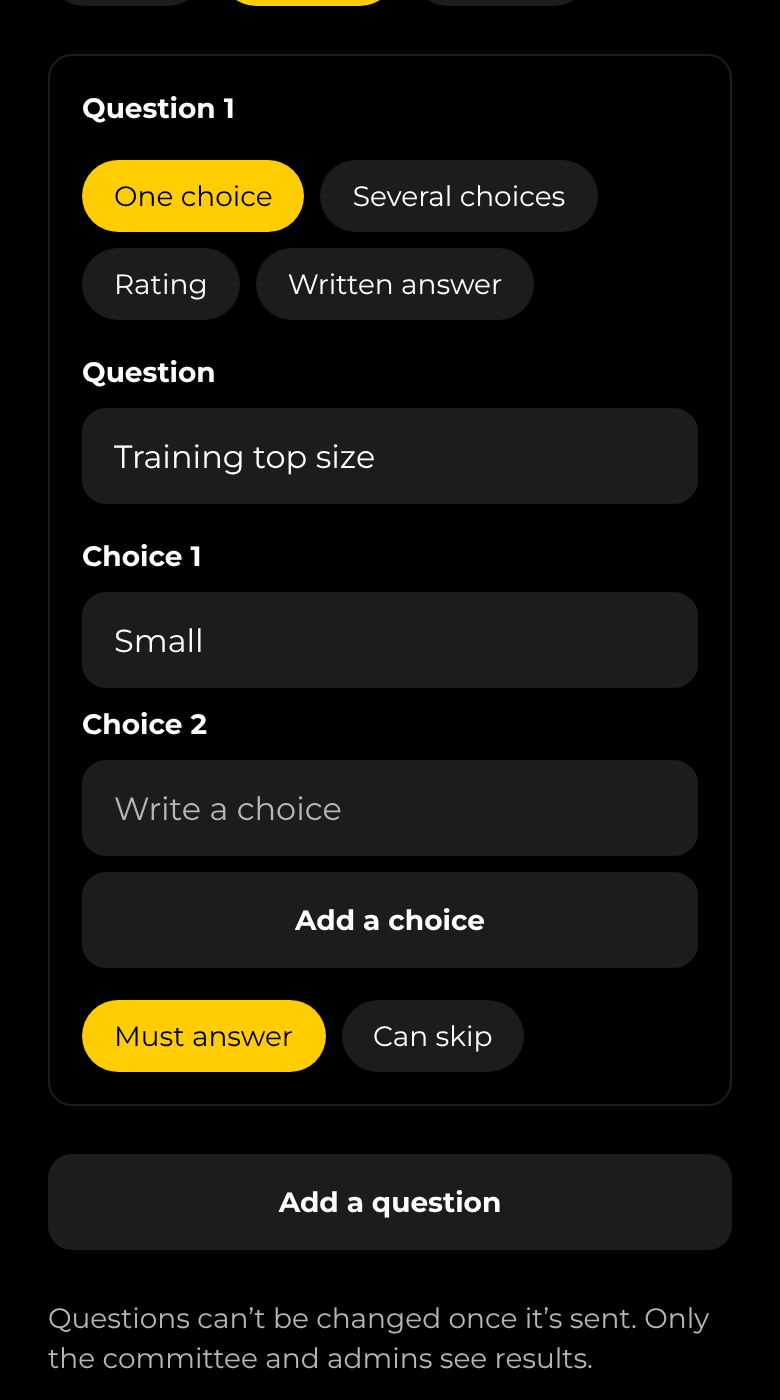
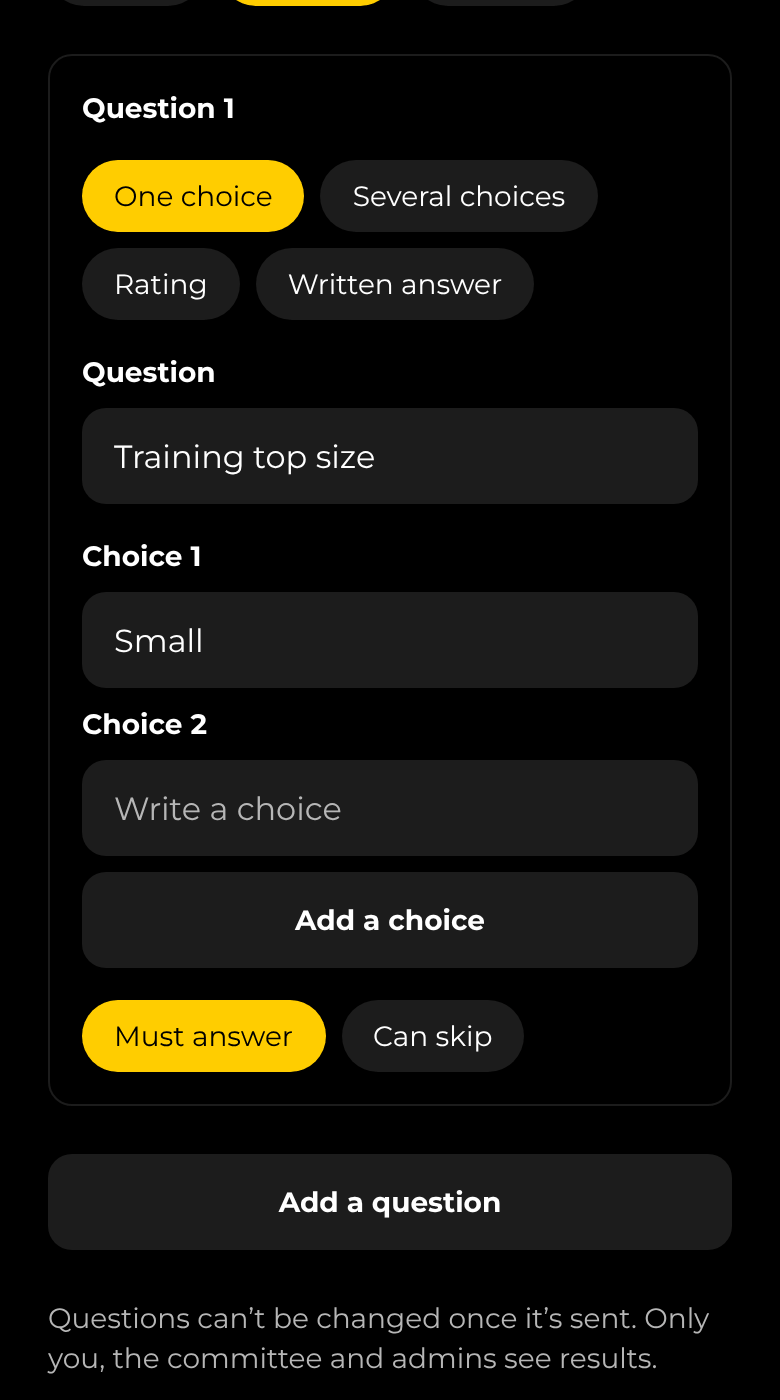
Let coaches and managers send surveys and polls to their own squads and teams
They send to the groups they coach or manage with a current check, see
only the surveys they sent, and read those results while they still lead
that group. The committee and admins still see every survey. Anonymity
rules are unchanged.

Claude-Session: https://claude.ai/code/session_011mgcLG2v6Sjj6gzeqmDwPH

Changed region(s): [[0.0615, 0.9521, 0.8308, 0.9829]]

diff --git a/src/app/surveys/new.tsx b/src/app/surveys/new.tsx
@@ -10,6 +10,7 @@ import { Spacing } from '@/constants/theme';
 import { useTheme } from '@/hooks/use-theme';
 import { toDateString } from '@/lib/injuries';
 import { pluralRoleLabels } from '@/lib/labels';
+import { useLedGroups } from '@/lib/messages';
 import { supabase } from '@/lib/supabase';
 import {
   endOfDayIso,
@@ -17,6 +18,7 @@ import {
   identityLabels,
   questionKindLabels,
   startOfDayIso,
+  useCanManageSurveys,
   type SurveyAudience,
   type SurveyIdentity,
   type SurveyQuestionKind,
@@ -58,15 +60,22 @@ function daysFromToday(days: number) {
 export default function NewSurveyScreen() {
   const theme = useTheme();
   const teams = useTeams();
+  // Coaches and managers send to the squads and teams they coach or manage;
+  // the committee and admins to anyone.
+  const canManage = useCanManageSurveys();
+  const ledGroups = useLedGroups(teams);
+  const groups = canManage ? teams : ledGroups;
   const [title, setTitle] = useState('');
   const [intro, setIntro] = useState('');
   const [identity, setIdentity] = useState<SurveyIdentity>('anonymous');
-  const [audience, setAudience] = useState<SurveyAudience>('club');
+  const [audience, setAudience] = useState<SurveyAudience>(canManage ? 'club' : 'group');
   const [role, setRole] = useState<AppRole | null>(null);
   const [teamId, setTeamId] = useState<string | null>(null);
   const [opensOn, setOpensOn] = useState<string | null>(toDateString(new Date()));
   const [closesOn, setClosesOn] = useState<string | null>(daysFromToday(14));
   const [questions, setQuestions] = useState<DraftQuestion[]>([newQuestion()]);
+  // Someone who leads one group doesn't need to pick it.
+  const selectedTeamId = teamId ?? (!canManage && groups.length === 1 ? groups[0].id : null);
   const [sending, setSending] = useState(false);
   const [error, setError] = useState<string | null>(null);
 
@@ -77,7 +86,7 @@ export default function NewSurveyScreen() {
   async function send() {
     if (!title.trim()) return setError('Give the survey a title.');
     if (audience === 'role' && !role) return setError('Choose who to send it to.');
-    if (audience === 'group' && !teamId) return setError('Choose a squad or team.');
+    if (audience === 'group' && !selectedTeamId) return setError('Choose a squad or team.');
     if (!opensOn || !closesOn) return setError('Choose when it opens and closes.');
     if (closesOn < opensOn) return setError('Choose a closing day on or after the opening day.');
     for (const [i, q] of questions.entries()) {
@@ -98,7 +107,7 @@ export default function NewSurveyScreen() {
       p_identity: identity,
       p_audience: audience,
       p_role: audience === 'role' ? role : null,
-      p_team_id: audience === 'group' ? teamId : null,
+      p_team_id: audience === 'group' ? selectedTeamId : null,
       // Opening today means straight away.
       p_opens_at: opensOn <= today ? null : startOfDayIso(opensOn),
       p_closes_at: endOfDayIso(closesOn),
@@ -149,19 +158,21 @@ export default function NewSurveyScreen() {
         {identityDetails[identity]} This can’t be changed once it’s sent.
       </ThemedText>
 
-      <ChipGroup
-        label="Send to"
-        options={[
-          { value: 'club', label: 'Everyone' },
-          { value: 'role', label: 'A role' },
-          { value: 'group', label: 'A squad or team' },
-        ]}
-        selected={[audience]}
-        onToggle={(value) => {
-          setAudience(value);
-          setError(null);
-        }}
-      />
+      {canManage ? (
+        <ChipGroup
+          label="Send to"
+          options={[
+            { value: 'club', label: 'Everyone' },
+            { value: 'role', label: 'A role' },
+            { value: 'group', label: 'A squad or team' },
+          ]}
+          selected={[audience]}
+          onToggle={(value) => {
+            setAudience(value);
+            setError(null);
+          }}
+        />
+      ) : null}
       {audience === 'role' ? (
         <ChipGroup
           label="Role"
@@ -171,12 +182,19 @@ export default function NewSurveyScreen() {
         />
       ) : null}
       {audience === 'group' ? (
-        <ChipGroup
-          label="Squad or team"
-          options={teams.map((t) => ({ value: t.id, label: teamLabel(t, teams) }))}
-          selected={teamId ? [teamId] : []}
-          onToggle={setTeamId}
-        />
+        groups.length === 0 ? (
+          <ThemedText type="small" themeColor="textSecondary">
+            You can send surveys to the squads and teams you coach or manage once an admin adds
+            you to one.
+          </ThemedText>
+        ) : (
+          <ChipGroup
+            label={canManage ? 'Squad or team' : 'Send to'}
+            options={groups.map((t) => ({ value: t.id, label: teamLabel(t, teams) }))}
+            selected={selectedTeamId ? [selectedTeamId] : []}
+            onToggle={setTeamId}
+          />
+        )
       ) : null}
       <ThemedText type="small" themeColor="textSecondary">
         Parents and guardians of athletes under 18 get a copy so they can see what their child is
@@ -282,7 +300,8 @@ export default function NewSurveyScreen() {
       ) : null}
 
       <ThemedText type="small" themeColor="textSecondary">
-        Questions can’t be changed once it’s sent. Only the committee and admins see results.
+        Questions can’t be changed once it’s sent. Only you, the committee and admins see
+        results.
       </ThemedText>
       <ErrorText>{error}</ErrorText>
       <Button title="Send survey" onPress={send} busy={sending} />

diff --git a/src/app/surveys/[id].tsx b/src/app/surveys/[id].tsx
@@ -17,7 +17,6 @@ import {
   identityLabels,
   openingDay,
   surveyAudienceLabel,
-  useCanManageSurveys,
   type SurveyAnswer,
   type SurveyDetail,
   type SurveyQuestion,
@@ -27,8 +26,7 @@ type Draft = Record<string, { choices?: number[]; rating?: number; text?: string
 
 export default function SurveyScreen() {
   const { id } = useLocalSearchParams<{ id: string }>();
-  const { isAdmin, profile, session } = useAuth();
-  const canManage = useCanManageSurveys();
+  const { profile } = useAuth();
   const [survey, setSurvey] = useState<SurveyDetail | null>(null);
   const [loadError, setLoadError] = useState<string | null>(null);
   const [draft, setDraft] = useState<Draft>({});
@@ -59,8 +57,6 @@ export default function SurveyScreen() {
   }
   if (!survey) return <Screen>{null}</Screen>;
 
-  const canClose =
-    canManage && survey.is_open && (isAdmin || survey.created_by === session?.user.id);
   const hasText = survey.questions.some((q) => q.kind === 'text');
 
   async function submit() {
@@ -199,14 +195,14 @@ export default function SurveyScreen() {
         </>
       )}
 
-      {canManage ? (
+      {survey.can_see_results ? (
         <View style={styles.actions}>
           <Button
             title="See results"
             variant="secondary"
             onPress={() => router.push({ pathname: '/surveys/results', params: { id: survey.id } })}
           />
-          {canClose ? (
+          {survey.can_close ? (
             <ConfirmDelete
               title="Close it now"
               warning="Nobody else can answer once it’s closed."
@@ -227,8 +223,8 @@ function IdentityNotice({ survey }: { survey: SurveyDetail }) {
     survey.identity === 'anonymous'
       ? 'This survey is anonymous. Nobody, including the committee and admins, can see who gave which answers.'
       : survey.identity === 'named'
-        ? 'Your name goes with your answers. Only the committee and admins see them.'
-        : 'You choose whether to give your name. Only the committee and admins see answers.';
+        ? 'Your name goes with your answers. Only whoever sent it, the committee and admins see them.'
+        : 'You choose whether to give your name. Only whoever sent it, the committee and admins see answers.';
   return (
     <Card>
       <ThemedText type="small">{text}</ThemedText>

diff --git a/src/lib/surveys.ts b/src/lib/surveys.ts
@@ -22,7 +22,7 @@ export const identityLabels: Record<SurveyIdentity, string> = {
 export const identityDetails: Record<SurveyIdentity, string> = {
   anonymous:
     'Nobody can see who gave which answers, not even admins. Results show once it closes and at least 3 people have answered.',
-  named: 'Every answer shows the member’s name. You can see who hasn’t answered yet.',
+  named: 'Every answer shows the member’s name. You can see who hasn’t answered yet. Good for a quick poll.',
   optional:
     'Each member chooses whether to give their name. Results show once it closes and at least 3 people have answered.',
 };
@@ -100,6 +100,10 @@ export type SurveyDetail = {
   /** Not open yet: only the committee and admins see it. */
   is_scheduled: boolean;
   is_recipient: boolean;
+  /** The committee and admins, or the coach or manager who sent it. */
+  can_see_results: boolean;
+  /** Whoever sent it, or an admin, while it's still open. */
+  can_close: boolean;
   for_child_names: string[] | null;
   can_answer: boolean;
   responded: boolean;
@@ -160,11 +164,24 @@ export function endOfDayIso(day: string) {
   return date.toISOString();
 }
 
-/** The committee and admins make surveys and read results. The database checks this too. */
+/**
+ * The committee and admins send surveys to anyone and read every survey's
+ * results. The database checks this too.
+ */
 export function useCanManageSurveys() {
   const { isAdmin, profile } = useAuth();
   if (profile?.status !== 'approved') return false;
   return isAdmin || hasRole(profile, 'committee');
+}
+
+/**
+ * Coaches and managers also send surveys, to the squads and teams they coach
+ * or manage, and read their own surveys' results.
+ */
+export function useCanSendSurveys() {
+  const { memberships } = useAuth();
+  const canManage = useCanManageSurveys();
+  return canManage || memberships.some((m) => m.team_role === 'coach' || m.team_role === 'manager');
 }
 
 /** Surveys sent to the member that have opened, refreshed when the screen is shown. */

diff --git a/src/app/index.tsx b/src/app/index.tsx
@@ -52,7 +52,7 @@ import { supabase } from '@/lib/supabase';
 import { useNewConcerns } from '@/lib/concerns';
 import { usePersonalTasks } from '@/lib/personal-tasks';
 import { useSessionPlanSummary } from '@/lib/session-plans';
-import { useCanManageSurveys, useMySurveys, surveysToAnswer } from '@/lib/surveys';
+import { useCanSendSurveys, useMySurveys, surveysToAnswer } from '@/lib/surveys';
 import { buildTodos } from '@/lib/todos';
 import type { ChildConsent } from '@/lib/consents';
 import {
@@ -103,7 +103,7 @@ export default function HomeScreen() {
   const { kpiPeople, reloadKpiPeople } = useKpiPeople();
   const { kpiReviewTodos, reloadKpiReviewTodos } = useKpiReviewTodos();
   const { mySurveys, reloadMySurveys } = useMySurveys();
-  const canManageSurveys = useCanManageSurveys();
+  const canSendSurveys = useCanSendSurveys();
   const surveysWaiting = surveysToAnswer(mySurveys).length;
   const { absencesToReview, reloadAbsencesToReview } = useAbsencesToReview(useLeadsAGroup());
   const canSeeInjuries = useCanSeeInjuries();
@@ -296,7 +296,7 @@ export default function HomeScreen() {
           </PressableCard>
         ) : null}
 
-        {features.surveys && (canManageSurveys || mySurveys.length > 0) ? (
+        {features.surveys && (canSendSurveys || mySurveys.length > 0) ? (
           <PressableCard onPress={() => router.push('/surveys')}>
             <View style={styles.cardTitleRow}>
               <ThemedText type="smallBold">Surveys</ThemedText>
@@ -311,7 +311,7 @@ export default function HomeScreen() {
             <ThemedText type="small" themeColor="textSecondary">
               {surveysWaiting > 0
                 ? `${surveysWaiting} to answer`
-                : canManageSurveys
+                : canSendSurveys
                   ? 'Send a survey and see results'
                   : 'Nothing to answer'}
             </ThemedText>

diff --git a/src/app/surveys/index.tsx b/src/app/surveys/index.tsx
@@ -14,6 +14,7 @@ import {
   identityLabels,
   surveyAudienceLabel,
   useCanManageSurveys,
+  useCanSendSurveys,
   useMySurveys,
   type ManagedSurvey,
   type MySurvey,
@@ -23,18 +24,20 @@ type Tab = 'mine' | 'all';
 
 export default function SurveysScreen() {
   const canManage = useCanManageSurveys();
+  // Coaches and managers send surveys to their own groups and see only those.
+  const canSend = useCanSendSurveys();
   const { mySurveys, reloadMySurveys } = useMySurveys();
   const [managed, setManaged] = useState<ManagedSurvey[] | null>(null);
   const [tab, setTab] = useState<Tab>('mine');
   const [refreshing, setRefreshing] = useState(false);
   // Committee members and admins rarely get surveys themselves, so they start on the club's.
-  const shown: Tab = canManage && mySurveys.length === 0 && tab === 'mine' ? 'all' : tab;
+  const shown: Tab = canSend && mySurveys.length === 0 && tab === 'mine' ? 'all' : tab;
 
   const loadManaged = useCallback(async () => {
-    if (!canManage) return;
+    if (!canSend) return;
     const { data } = await supabase.rpc('manage_surveys');
     setManaged((data as ManagedSurvey[] | null) ?? []);
-  }, [canManage]);
+  }, [canSend]);
 
   useFocusEffect(
     useCallback(() => {
@@ -50,13 +53,13 @@ export default function SurveysScreen() {
 
   return (
     <Screen refreshing={refreshing} onRefresh={onRefresh}>
-      {canManage ? (
+      {canSend ? (
         <View style={styles.actions}>
           <Button title="New survey" onPress={() => router.push('/surveys/new')} />
           <ChipGroup
             options={[
               { value: 'mine', label: 'Sent to me' },
-              { value: 'all', label: 'All surveys' },
+              { value: 'all', label: canManage ? 'All surveys' : 'Sent by me' },
             ]}
             selected={[shown]}
             onToggle={setTab}

diff --git a/docs/user-guide.md b/docs/user-guide.md
@@ -93,7 +93,7 @@ What each role sees on its home screen:
 | Read messages                          |    ✓    |        ✓        |      ✓       |     ✓      |       ✓       |       ✓*      |         |       ✓       |
 | Send messages                          | Captains† |                 |  Own groups  | Own groups |   Whole club  |               |         |     Anyone    |
 | Answer surveys                         |    ✓    | Own; see their athlete's |      ✓       |     ✓      |       ✓       |       ✓       |         |       ✓       |
-| Make surveys and see results           |         |                 |              |            |       ✓       |               |         |       ✓       |
+| Send surveys and polls, see results    |         |                 |  Own groups  | Own groups |    Anyone     |               |         |    Anyone     |
 | Daily check-in                         |    ✓    |                 |              |            |               |               |         |               |
 | Game goals and reflections             |   Own   |  See athlete's  | Own athletes |            |               |               |         |               |
 | Team goals for a game                  | See, comment |       See       | Set, review, comment |            |               |               |         |               |
@@ -380,7 +380,8 @@ and who read it stay (see [Keeping records](#keeping-records)).
 
 ### Surveys
 
-The committee and admins send surveys to everyone, a role, or a squad or team. A survey you need
+The committee and admins send surveys to everyone, a role, or a squad or team, and coaches and
+managers send surveys and quick polls to their own squads and teams. A survey you need
 to answer shows in your to-do list until you answer it or it closes, and the **Surveys** card on
 the home screen counts how many are waiting.
 
@@ -395,8 +396,8 @@ Each survey says at the top how your answers are kept:
 - **Name optional**: you choose **Give my name** or **Don't give my name** before you send.
 
 Answer each question and tap **Send answers**. Questions marked (optional) can be skipped. You
-can't change your answers once they're sent, and you can answer each survey once. Only the
-committee and admins see answers, never other members.
+can't change your answers once they're sent, and you can answer each survey once. Only whoever
+sent it, the committee and admins see answers, never other members.
 
 Athletes under 18 see a reminder on anonymous and name-optional surveys: nobody can reply to
 something written without a name, so if something is worrying them they should tell a coach or
@@ -1269,6 +1270,23 @@ session.
 <img src="user-guide/attendance-athletes.png" width="210" alt="Athletes' attendance percentages">
 <img src="user-guide/attendance-athlete.png" width="210" alt="One athlete's attendance">
 
+### Surveys and polls for your squad or team
+
+Coaches and managers can send a survey, or a one-question poll such as "Can you come to an extra
+session on Friday?", to the squads and teams they coach or manage. Open **Surveys** from the home
+screen and tap **New survey**. It works the same way as for the committee (see [Surveys for the
+club](#surveys-for-the-club)), except that **Send to** only offers your own groups; if you lead
+just one, it's picked for you. A **Named** survey with one **One choice** question makes a quick
+poll, and shows who hasn't answered yet.
+
+<img src="user-guide/survey-coach-new.png" width="210" alt="A coach sending a poll to their squad"> <img src="user-guide/surveys-coach-list.png" width="210" alt="A coach's surveys">
+
+**Sent by me** lists your own surveys. You see the results of the surveys you sent, while you
+still coach or manage that squad or team with a current check, including after the season ends.
+You don't see other people's surveys. The committee and admins see yours. The same rules keep
+anonymous answers anonymous, and opening named answers from an athlete under 18 is recorded in
+their record views.
+
 ### Session plans
 
 Keep a plan for each session, before or after it, so the club has a record of what was coached.
@@ -1325,6 +1343,8 @@ your squad until you're in a team, like "Manager, 17 & Under". As a manager you 
 
 - **Send messages** to the squads and teams you manage, and see read receipts, the same way as
   coaches (see [Sending messages](#sending-messages)).
+- **Send surveys and polls** to the squads and teams you manage, and see their results (see
+  [Surveys and polls for your squad or team](#surveys-and-polls-for-your-squad-or-team)).
 - **Take attendance** for your groups, a whole squad or the whole club, and see and correct your
   own groups' sessions (see [Taking attendance](#taking-attendance)).
 - **Work on your season KPIs**, if the club uses them: the committee sets them, and you record your
@@ -2451,8 +2471,8 @@ once saved, only replaced or removed, and anyone who gets it wrong five times in
 | Committee checks date   | Everyone signed in. Only admins change it, and only to bring it forward; who changed it and when is kept. |
 | Messages                | The people they were sent to, the sender, and admins. Guardians of athletes under 18 get a copy of every message sent to their athlete, and of every message their athlete sends as a captain. Guests don't get messages; physios get messages sent to the Physio role and to their squads and teams, and whole-club messages only if an admin turns that on. |
 | Read receipts           | The sender and admins.                                                                                                      |
-| Survey answers          | The committee and admins. Named answers show the member's name; parents and guardians of an athlete under 18 also read their child's named answers. Anonymous answers, and name-optional answers given without a name, are kept with no name, no member and no time, so nobody can see who gave them, admins included; their results show only once the survey has closed and at least 3 people have answered. Members never see each other's answers. |
-| Who has answered a survey | Named surveys: the committee and admins see who hasn't answered yet. Anonymous and name-optional surveys: only how many have answered. Each member sees whether they've answered themselves. |
+| Survey answers          | The committee and admins, and the coach or manager who sent a survey to their own squad or team, while they still coach or manage it. Named answers show the member's name; parents and guardians of an athlete under 18 also read their child's named answers. Anonymous answers, and name-optional answers given without a name, are kept with no name, no member and no time, so nobody can see who gave them, admins included; their results show only once the survey has closed and at least 3 people have answered. Members never see each other's answers. |
+| Who has answered a survey | Named surveys: whoever can see the results sees who hasn't answered yet. Anonymous and name-optional surveys: only how many have answered. Each member sees whether they've answered themselves. |
 | Daily check-in answers and notes | The athlete, their guardians and their coaches. For an athlete under 18, their coaches only once a parent or guardian consents, and until then their check-ins count in no average. The committee, physios and admins see only group averages, hidden below 5 check-ins (over three days, in Trends) or when two groups differ by fewer than 5. |
 | Injuries and documents  | For an athlete under 18 whose parents haven't given consent for injuries: only the athlete, their guardians and admins. Otherwise the athlete, their guardians, their coaches, the physios who look after them (the Head Physio and physios in their squad or team), the committee and admins. Managers don't see injuries. Whoever takes attendance (coaches, managers, the committee and admins) sees only that an athlete is **Injured** and their expected return date, whatever the consent. Only the committee member or admin accepting a clearance can share its documents, while it waits for them; everyone else views them in the app. |
 | Who opened injury documents | The athlete, their guardians and admins: every view and share, by whom, their role and when, and each photo consent. |
@@ -2608,7 +2628,8 @@ Working With Children Check, and another admin must do it.
   don't, and there's nothing to like or share.
 - **Anonymous surveys really are anonymous.** Nothing in the app links an anonymous answer to you,
   and nobody can reply to it. If something is worrying you, tell a coach or parent, or raise a
-  concern. Surveys come only from the committee and admins, other members never see your answers,
+  concern. Surveys come only from the committee, admins and your own coaches and managers, other
+  members never see your answers,
   and your parents or guardians see every survey you're sent.
 - **Your own tasks are just for you.** Tasks you add to your to-do list are private reminders:
   nobody else can see them, and they can't be shared, liked or sent to anyone.
